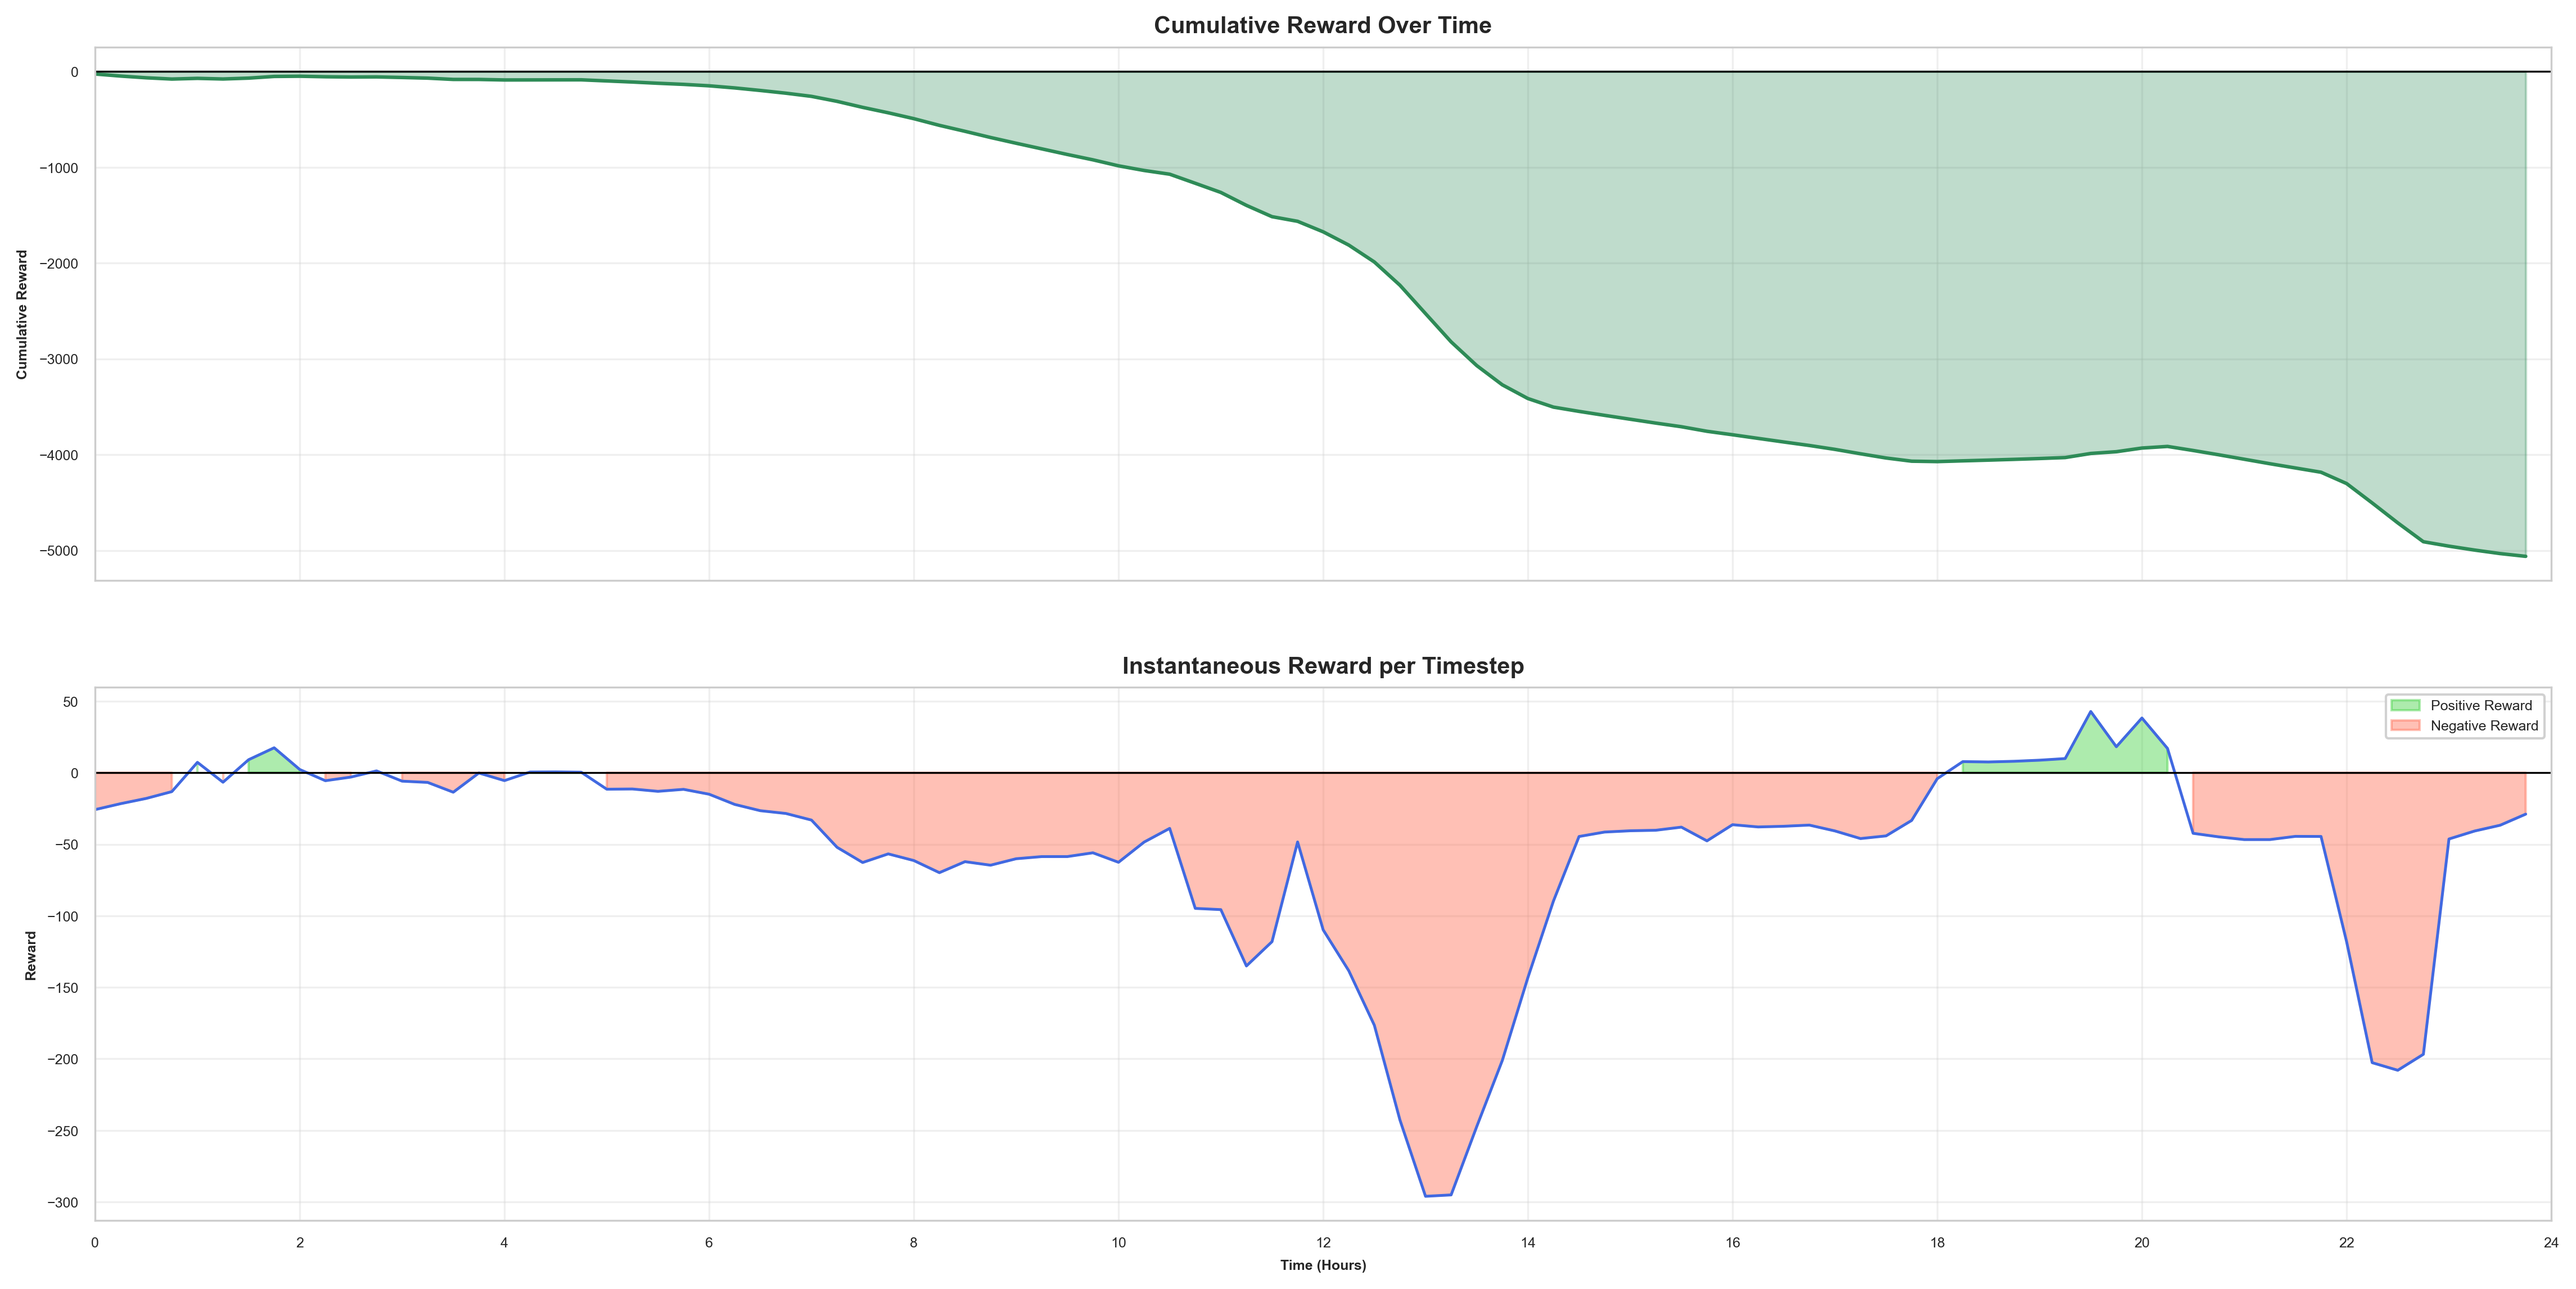
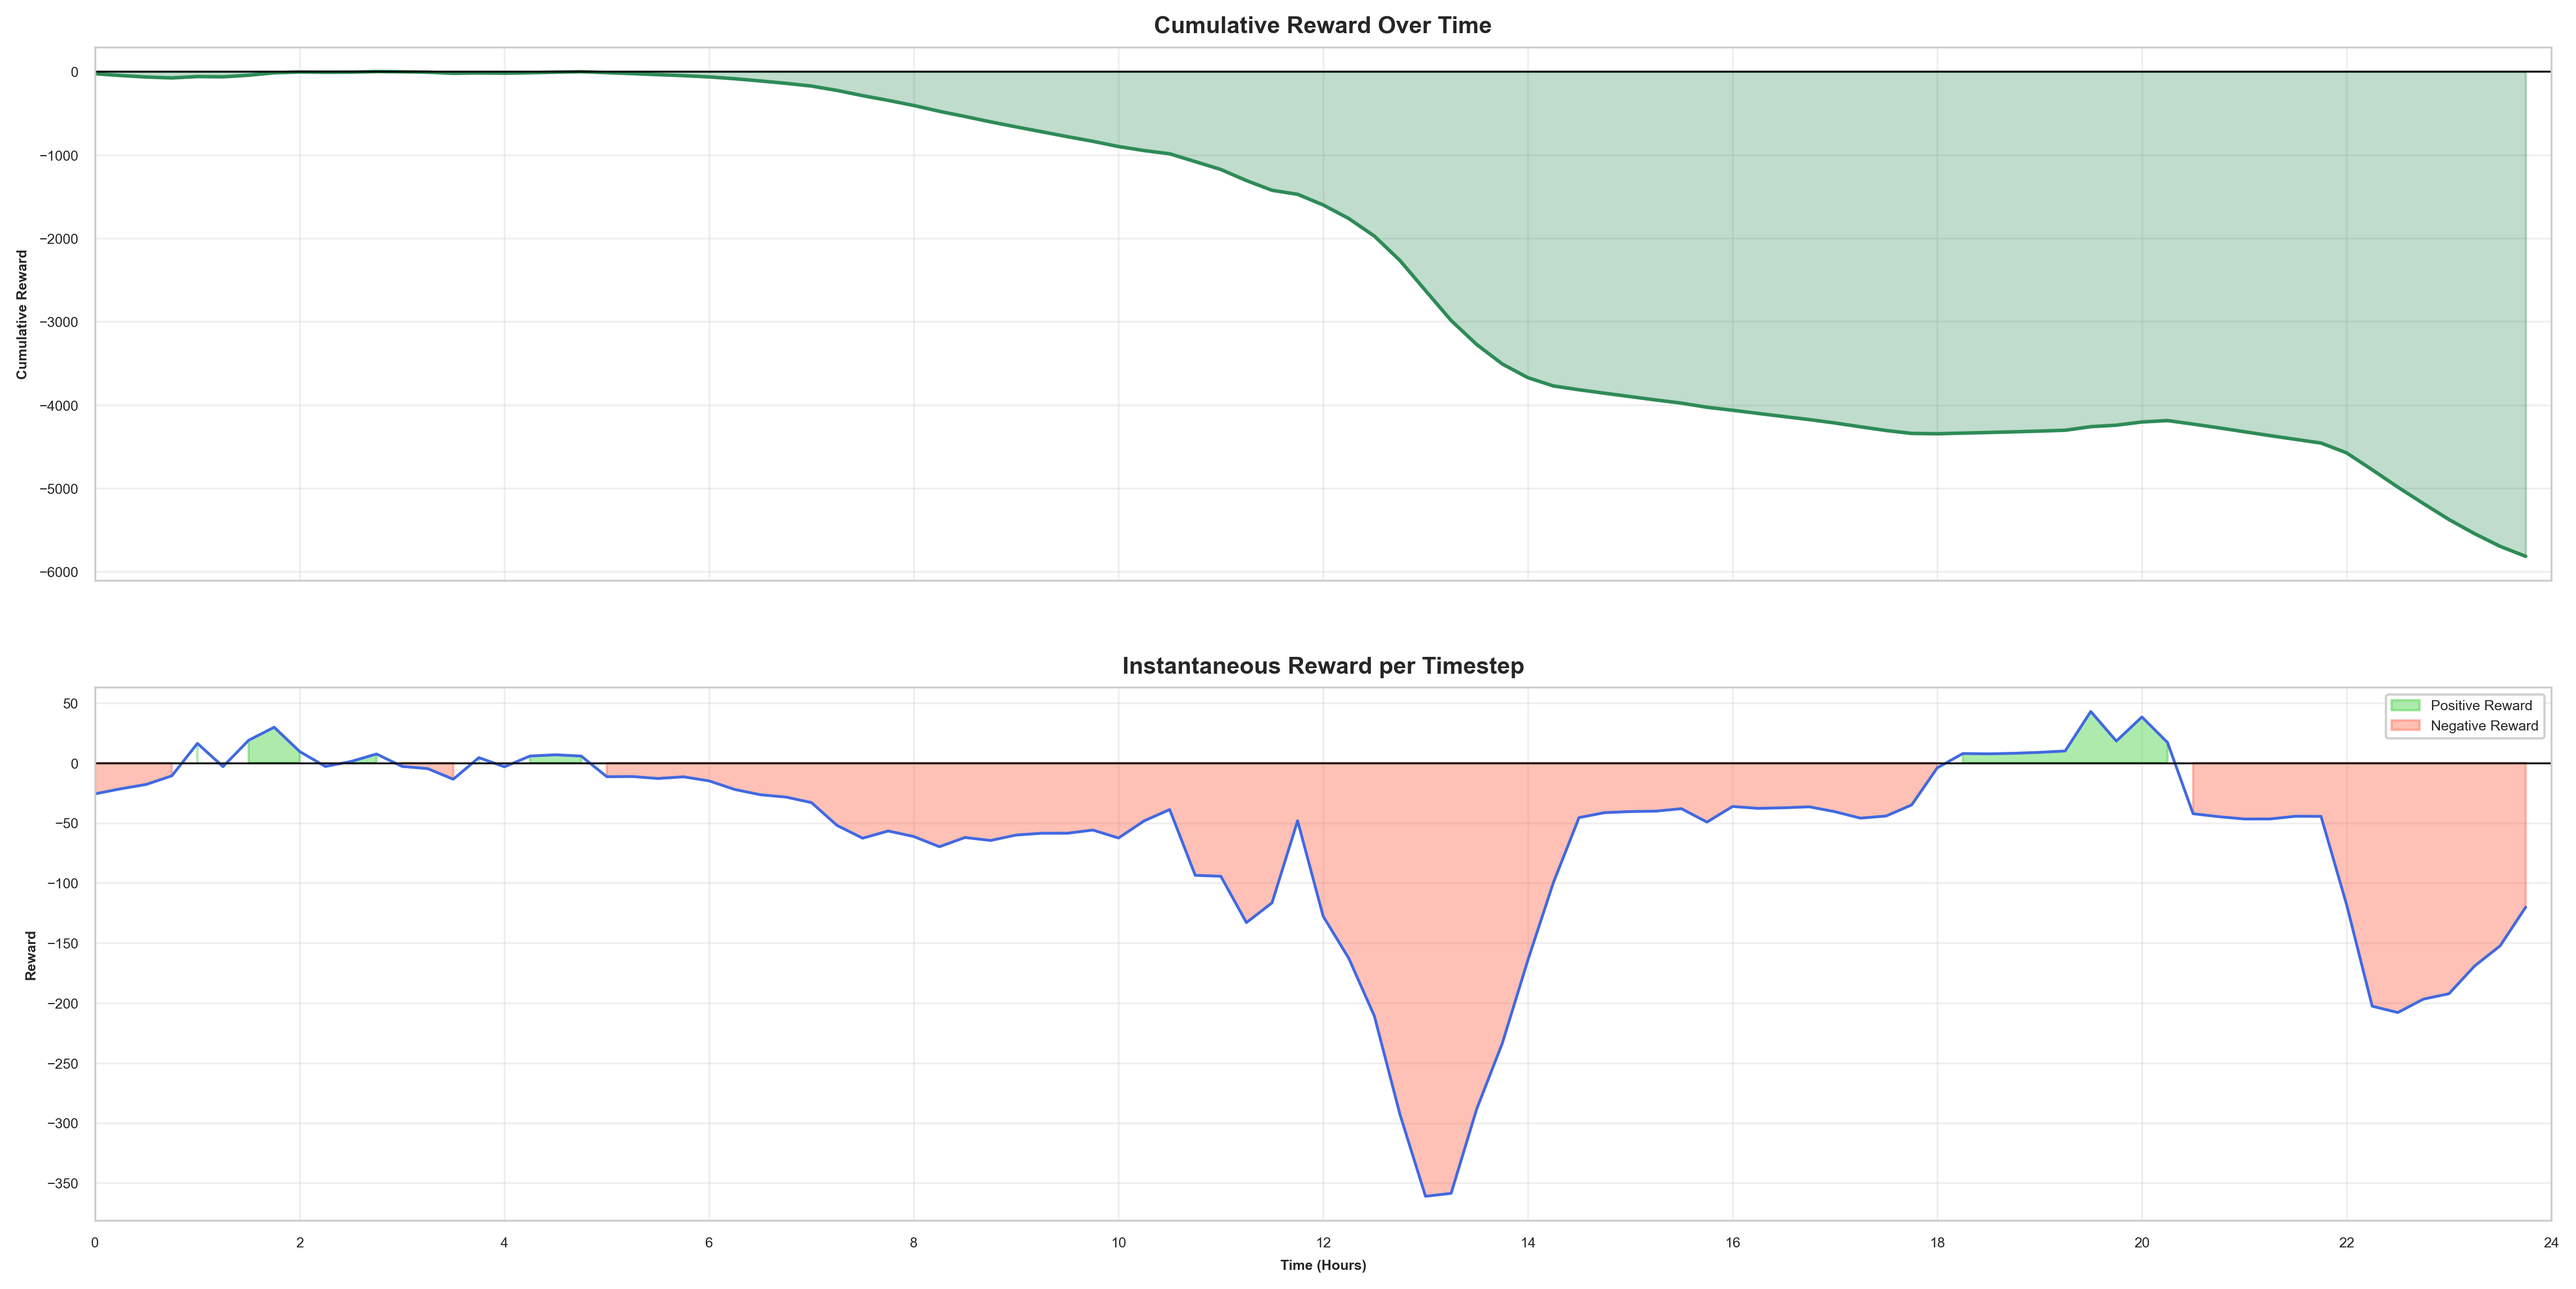
Refine VPP reward shaping; bump training timesteps

diff --git a/RL_agent/vpp_env.py b/RL_agent/vpp_env.py
@@ -303,7 +303,7 @@ class UrbanVPPEnv(gym.Env):
         
         if 6 <= hour < 18:         # Daytime / solar hours (6am-6pm)
             buy_price, sell_price = 25, 19
-        elif 18 <= hour < 23:      # Evening peak (6pm-11pm)
+        elif 18 <= hour < 24:      # Evening peak (6pm-11pm)
             buy_price, sell_price = 54, 45
         else:                      # Night (11pm-6am)
             buy_price, sell_price = 13, 0
@@ -334,16 +334,45 @@ class UrbanVPPEnv(gym.Env):
             surplus_factor = min(1.0, net_solar_surplus / 20.0)  # Normalize by typical surplus
             bess_solar_charge_bonus = -10.0 * bess_charge_power * (1.0 + surplus_factor)  # Strong positive reward
 
-        # Bonus: Smart daytime charging (6am-6pm) - prioritize solar, allow grid when beneficial
-        # Encourage charging during moderate price hours when batteries need it
-        daytime_charge_bonus = 0.0
-        if 6 <= hour < 18 and np.mean(self.soc) < 0.7:  # Daytime with room to charge
+        # Bonus: MORNING charging (00:00-06:00) - cheapest night rates, strategic pre-charging
+        # Morning = midnight to 6am: charge at lowest cost (13 cents) to hold until evening peak
+        morning_charge_bonus = 0.0
+        if hour < 6 and np.mean(self.soc) < 0.7:  # Morning hours (00:00-06:00) with room to charge
             total_charge_power = np.sum(np.minimum(0, self.node_battery_power_kw))  # Negative value
-            # Strong bonus with solar surplus, moderate bonus otherwise (still cheaper than evening)
-            if net_solar_surplus > 0:
-                daytime_charge_bonus = -5.0 * total_charge_power  # Strong incentive with solar
+            # Strong incentive: charge at cheapest rates to prepare for day
+            morning_charge_bonus = -10.0 * total_charge_power  # Very strong morning charging
+        
+        # Bonus: Early day solar capture (06:00-12:00) - use any available solar first
+        # Prioritize solar generation even if partial, supplement with grid if needed
+        early_solar_bonus = 0.0
+        if 6 <= hour < 12 and np.mean(self.soc) < 0.7:  # Early day with room to charge
+            total_charge_power = np.sum(np.minimum(0, self.node_battery_power_kw))  # Negative value
+            if net_solar_surplus > 0 or np.sum(full_solar_profile) > 0:
+                # Use all available solar first, even if not enough for full charge
+                early_solar_bonus = -6.0 * total_charge_power  # Strong incentive with solar
+            elif np.mean(self.soc) < 0.5:  # Low battery, allow supplemental grid charging
+                early_solar_bonus = -1.5 * total_charge_power  # Mild grid supplement
+        
+        # Penalty: Noon/Afternoon charging without solar (12pm-6pm)
+        # Avoid charging at noon when no solar - save capacity for evening discharge
+        midday_charge_penalty = 0.0
+        if 12 <= hour < 18:  # Noon to evening
+            total_charge_power = np.sum(np.minimum(0, self.node_battery_power_kw))  # Negative value
+            if net_solar_surplus > 0 or np.sum(full_solar_profile) > 0:
+                # Solar available: allow charging but less incentive than morning
+                midday_charge_penalty = -3.0 * total_charge_power  # Moderate incentive
             else:
-                daytime_charge_bonus = -1.0 * total_charge_power  # Mild incentive from grid
+                # NO solar available: STRONG penalty for charging (wasteful, should use morning rates)
+                # Since total_charge_power is negative when charging, negate it to make penalty positive
+                midday_charge_penalty = -10.0 * total_charge_power  # Strong penalty (positive when charging)
+        
+        # Bonus: Afternoon conservation (2pm-6pm) - hold charge for evening peak
+        # Encourage keeping batteries charged (not discharging) before evening peak
+        afternoon_conservation_bonus = 0.0
+        if 14 <= hour < 18 and np.mean(self.soc) > 0.4:  # Afternoon with charge
+            # Small penalty for discharging during afternoon (save for evening)
+            total_discharge_power = np.sum(np.maximum(0, self.node_battery_power_kw))  # Positive value
+            afternoon_conservation_bonus = -2.0 * total_discharge_power  # Mild penalty
 
         # Bonus: Cheap night charging (11pm-6am) - arbitrage opportunity
         # Charge at low prices (buy=13) to discharge later at high prices
@@ -431,7 +460,10 @@ class UrbanVPPEnv(gym.Env):
                   + voltage_penalty 
                   + solar_charge_bonus
                   + bess_solar_charge_bonus
-                  + daytime_charge_bonus
+                  + morning_charge_bonus
+                  + early_solar_bonus
+                  + midday_charge_penalty
+                  + afternoon_conservation_bonus
                   + night_charge_bonus
                   + evening_discharge_bonus
                   + cycling_cost

diff --git a/RL_agent/train.py b/RL_agent/train.py
@@ -155,7 +155,7 @@ def main():
     callbacks = CallbackList([checkpoint_callback, eval_callback])
     
     # 4. Start Training
-    total_timesteps = 250_000  # Updated to 250k steps for stable convergence
+    total_timesteps = 500_000  # Updated to 500k steps for stable convergence
     print("[START] PPO Training...")
     print(f"   Target: {total_timesteps:,} Timesteps")
     print(f"   Checkpoints every: {checkpoint_callback.save_freq:,} steps")

diff --git a/RL_agent/plot_results.py b/RL_agent/plot_results.py
@@ -20,7 +20,7 @@ OUTPUT_DIR = os.path.abspath("./results_plots")  # Where to save plots
 
 steps_to_plot = 96  # One day (15 min intervals)
 SCENARIO_NAME = "solar_unavailable_day" # Set to same as train.py (e.g. "heatwave_day") or None for default
-
+ 
 # Node configuration
 SOLAR_NODE_INDICES = [0, 1, 2, 4, 6, 8]
 LOAD_ONLY_NODE_INDICES = [3, 5, 7, 9]  
